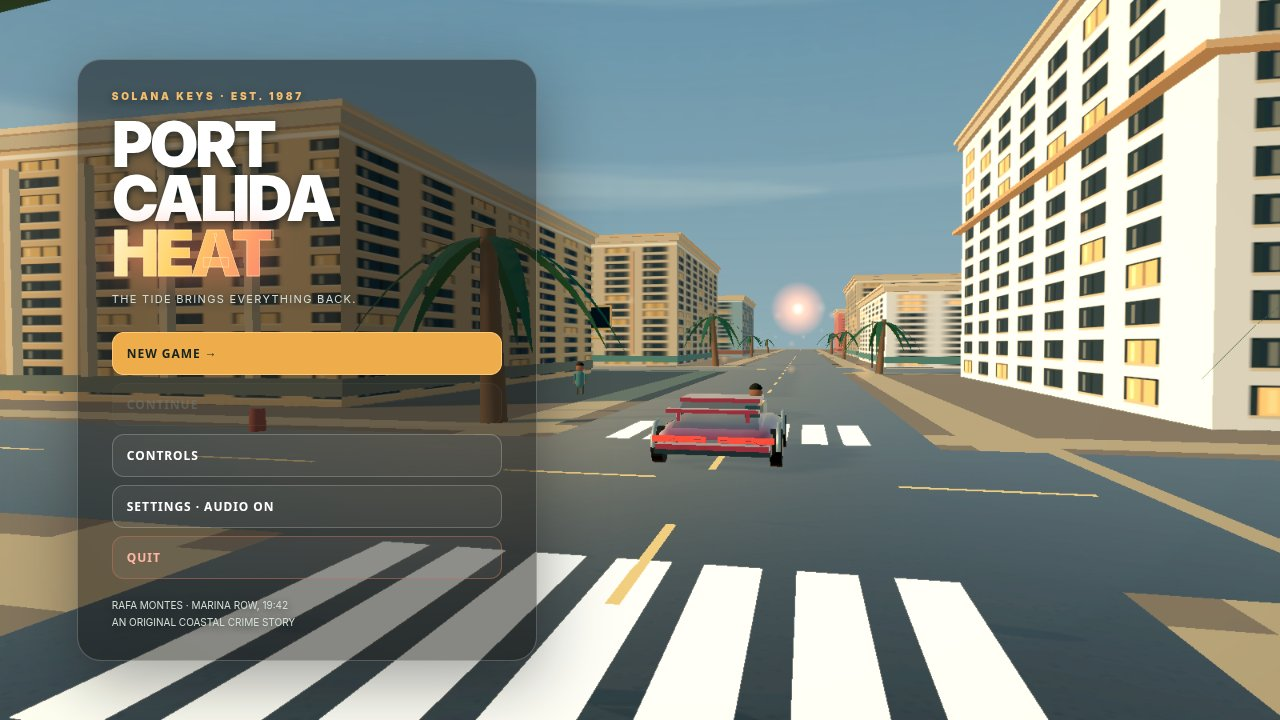
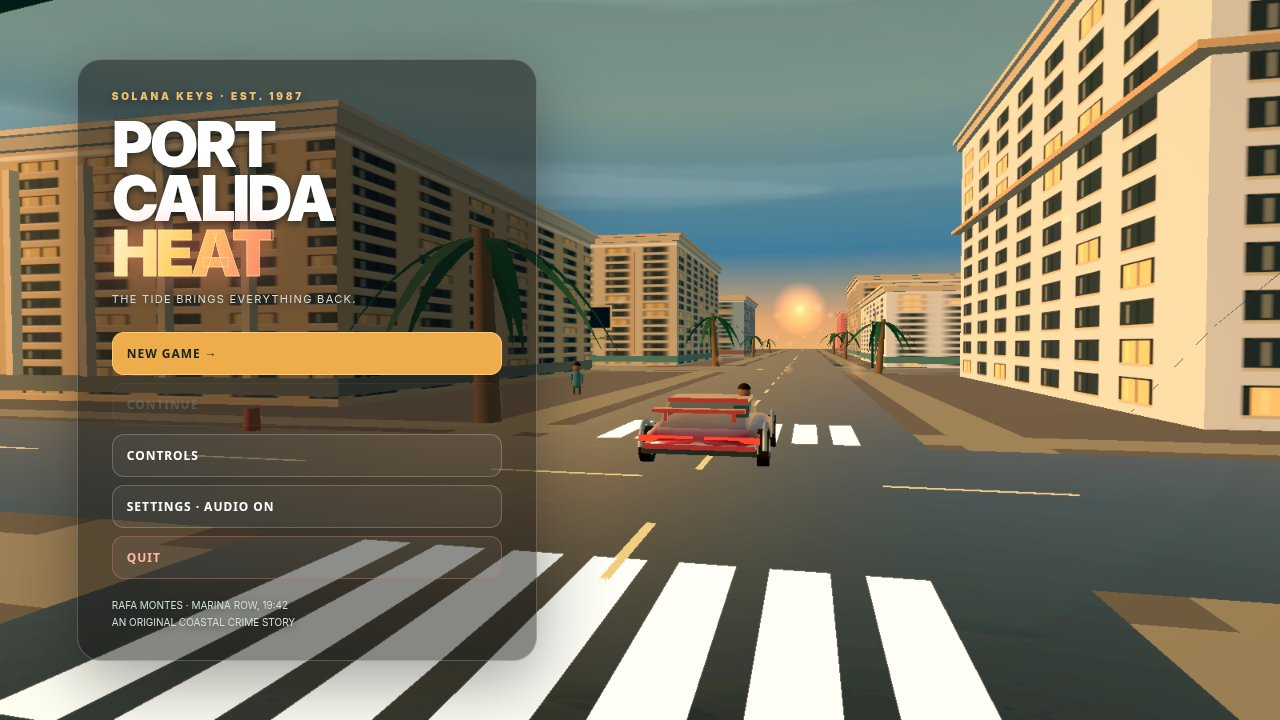
Golden hour mood restore and solid signature coupe

diff --git a/game/src/world/skyLighting.js b/game/src/world/skyLighting.js
@@ -7,9 +7,10 @@ const presets = {
     hemiSky: 0xaed8ee, hemiGround: 0x665c4d, sunColor: 0xfff0c2, exposure: 1.08,
   },
   golden: {
-    sky: ['#1b4267', '#5286a5', '#91aeb6', '#e9bd8f', '#a88c72'],
-    fog: 0xaebdbb, fogDensity: .0003, ambient: .72, sun: 3.35,
-    hemiSky: 0xb5c2c2, hemiGround: 0x716b5e, sunColor: 0xffe2b0, exposure: 1,
+    sky: ['#334f66', '#7e968c', '#477f9d', '#e3a873', '#ffc778', '#91aeb6', '#12375f'],
+    skyStops: [0, .4, .46, .49, .53, .58, 1],
+    fog: 0xadb9b3, fogDensity: .00024, ambient: .5, sun: 3.8,
+    hemiSky: 0x789bac, hemiGround: 0x555b54, sunColor: 0xffc27a, exposure: .98,
   },
   night: {
     sky: ['#030a16', '#0a172b', '#101e36', '#17243b', '#101e36'],
@@ -18,12 +19,12 @@ const presets = {
   },
 };
 
-function makeSkyTexture(stops, night = false) {
+function makeSkyTexture(stops, night = false, stopPositions = null) {
   const canvas = document.createElement('canvas');
   canvas.width = 256; canvas.height = 512;
   const context = canvas.getContext('2d');
   const gradient = context.createLinearGradient(0, 0, 0, canvas.height);
-  stops.forEach((color, index) => gradient.addColorStop(index / (stops.length - 1), color));
+  stops.forEach((color, index) => gradient.addColorStop(stopPositions?.[index] ?? index / (stops.length - 1), color));
   context.fillStyle = gradient; context.fillRect(0, 0, canvas.width, canvas.height);
   context.globalAlpha = .1;
   for (let cloud = 0; cloud < 22; cloud++) {
@@ -52,12 +53,12 @@ function makeSkyTexture(stops, night = false) {
   return texture;
 }
 
-function makeEnvironmentTexture(stops, night = false) {
+function makeEnvironmentTexture(stops, night = false, stopPositions = null) {
   const canvas = document.createElement('canvas');
   canvas.width = 512; canvas.height = 256;
   const context = canvas.getContext('2d');
   const gradient = context.createLinearGradient(0, 0, 0, canvas.height);
-  stops.forEach((color, index) => gradient.addColorStop(index / (stops.length - 1), color));
+  stops.forEach((color, index) => gradient.addColorStop(stopPositions?.[index] ?? index / (stops.length - 1), color));
   context.fillStyle = gradient; context.fillRect(0, 0, canvas.width, canvas.height);
   context.globalAlpha = .1;
   context.fillStyle = '#f6f1df'; context.fillRect(0, 138, canvas.width, 3);
@@ -70,9 +71,9 @@ function makeEnvironmentTexture(stops, night = false) {
   }
   context.globalAlpha = 1;
   if (!night) {
-    const sunset = context.createRadialGradient(94, 144, 2, 94, 144, 54);
-    sunset.addColorStop(0, '#fff6dc'); sunset.addColorStop(.24, '#ffe2b0'); sunset.addColorStop(1, 'rgba(255,226,176,0)');
-    context.fillStyle = sunset; context.fillRect(36, 90, 116, 108);
+    const sunset = context.createRadialGradient(94, 130, 2, 94, 130, 48);
+    sunset.addColorStop(0, '#fff0c8'); sunset.addColorStop(.3, '#ffc27a'); sunset.addColorStop(1, 'rgba(255,194,122,0)');
+    context.fillStyle = sunset; context.fillRect(38, 82, 112, 96);
   }
   context.globalAlpha = .12;
   context.fillStyle = '#172d3a';
@@ -92,7 +93,7 @@ export function createSkyLighting(scene, renderer, initialPreset = 'golden') {
   const pmrem = new THREE.PMREMGenerator(renderer);
   pmrem.compileEquirectangularShader();
   const skyMaterial = new THREE.MeshBasicMaterial({
-    map: makeSkyTexture(presets.golden.sky), side: THREE.BackSide, depthWrite: false, fog: false,
+    map: makeSkyTexture(presets.golden.sky, false, presets.golden.skyStops), side: THREE.BackSide, depthWrite: false, fog: false,
   });
   const skyDome = new THREE.Mesh(new THREE.SphereGeometry(850, 32, 24), skyMaterial);
   scene.add(skyDome);
@@ -100,7 +101,7 @@ export function createSkyLighting(scene, renderer, initialPreset = 'golden') {
   scene.add(hemi);
   const nightFill = new THREE.AmbientLight(0xb2bfd4, 0);
   scene.add(nightFill);
-  const sun = new THREE.DirectionalLight(0xffe0a1, 2.45);
+  const sun = new THREE.DirectionalLight(0xffc27a, 2.45);
   sun.position.set(-180, 260, 100); sun.castShadow = true;
   sun.shadow.mapSize.set(1024, 1024);
   sun.shadow.camera.left = -240; sun.shadow.camera.right = 240;
@@ -137,11 +138,11 @@ export function createSkyLighting(scene, renderer, initialPreset = 'golden') {
     const key = presets[name] ? name : 'golden';
     const preset = presets[key];
     skyMaterial.map?.dispose();
-    skyMaterial.map = makeSkyTexture(preset.sky, key === 'night');
+    skyMaterial.map = makeSkyTexture(preset.sky, key === 'night', preset.skyStops);
     skyMaterial.needsUpdate = true;
     environmentSource?.dispose();
     environmentTarget?.dispose();
-    environmentSource = makeEnvironmentTexture(preset.sky, key === 'night');
+    environmentSource = makeEnvironmentTexture(preset.sky, key === 'night', preset.skyStops);
     environmentTarget = pmrem.fromEquirectangular(environmentSource);
     scene.environment = environmentTarget.texture;
     scene.userData.reflectionTexture = environmentSource;
@@ -154,10 +155,10 @@ export function createSkyLighting(scene, renderer, initialPreset = 'golden') {
     renderer.toneMappingExposure = preset.exposure;
     sun.color.setHex(preset.sunColor);
     sun.intensity = preset.sun;
-    sun.position.y = key === 'golden' ? 115 : key === 'night' ? 75 : 255;
+    sun.position.y = key === 'golden' ? 60 : key === 'night' ? 75 : 255;
     streetlights.forEach(light => { light.intensity = key === 'night' ? 760 : key === 'golden' ? .5 : 0; });
     glow.visible = key !== 'night';
-    glow.material.color.setHex(key === 'day' ? 0xfff0cc : 0xffbd9c);
+    glow.material.color.setHex(key === 'day' ? 0xfff0cc : key === 'golden' ? 0xffc27a : 0xffbd9c);
     scene.userData.lightingPreset = key;
     return key;
   }
@@ -168,7 +169,9 @@ export function createSkyLighting(scene, renderer, initialPreset = 'golden') {
   const applyNightLighting = key => {
     const night = key === 'night';
     emissiveMaterials.forEach(material => {
-      material.emissiveIntensity = night ? material.userData.nightEmissive ?? .65 : material.userData.dayEmissive ?? .12;
+      material.emissiveIntensity = night
+        ? material.userData.nightEmissive ?? .65
+        : key === 'golden' ? material.userData.goldenEmissive ?? .12 : material.userData.dayEmissive ?? .12;
     });
     scene.background = new THREE.Color(presetColor(key));
     if (night) scene.fog.color.set(tintNight);

diff --git a/game/src/entities/vehicleModels.js b/game/src/entities/vehicleModels.js
@@ -85,6 +85,22 @@ function loftBody(width, length) {
     const rightA = leftA + ringSize - 1, rightB = rightA + ringSize;
     indices.push(leftA, leftA + 1, leftB, rightA, rightA - 1, rightB);
   }
+  for (let station = 0; station < stations.length - 1; station++) {
+    const leftBottom = station * ringSize;
+    const rightBottom = leftBottom + ringSize - 1;
+    const nextLeftBottom = leftBottom + ringSize;
+    const nextRightBottom = rightBottom + ringSize;
+    indices.push(leftBottom, rightBottom, nextLeftBottom, rightBottom, nextRightBottom, nextLeftBottom);
+  }
+  const startCenter = vertices.length / 3;
+  vertices.push(0, .98, stations[0][0] * length);
+  const endCenter = vertices.length / 3;
+  vertices.push(0, .98, stations.at(-1)[0] * length);
+  for (let point = 0; point < ringSize - 1; point++) {
+    indices.push(startCenter, point, point + 1);
+    const end = (stations.length - 1) * ringSize;
+    indices.push(endCenter, end + point + 1, end + point);
+  }
   const geometry = new THREE.BufferGeometry();
   geometry.setAttribute('position', new THREE.Float32BufferAttribute(vertices, 3));
   geometry.setIndex(indices);

diff --git a/game/src/shots.js b/game/src/shots.js
@@ -222,9 +222,8 @@ export function stageShot(name, game, preset = 'golden') {
     game.enterVehicle(car, true);
     car.mesh.position.set(-276, 0, 7); car.yaw = 0; car.mesh.rotation.y = 0; car.speed = 13;
     car.mesh.traverse(object => {
-      if (object.isMesh && object.material?.userData.carPaint) object.material.color.setHex(0xb83f55);
+      if (object.isMesh && object.material?.userData.carPaint) object.material.color.setHex(0xc52c35);
     });
-    car.mesh.children[2].visible = false;
     addSignatureDriver(car);
     addMarinaShopfronts(game.scene);
     game.titleCar.mesh.visible = false;

diff --git a/game/src/world/buildings.js b/game/src/world/buildings.js
@@ -68,6 +68,7 @@ export function addBuildings(scene, random) {
       emissive: 0xffb76b, emissiveIntensity: .12, roughness: .78, metalness: .04,
     });
     material.userData.dayEmissive = .1;
+    material.userData.goldenEmissive = .27;
     material.userData.nightEmissive = .95;
     scene.userData.registerNightMaterial?.(material);
     const body = new THREE.Mesh(new THREE.BoxGeometry(w, height, d), material);
